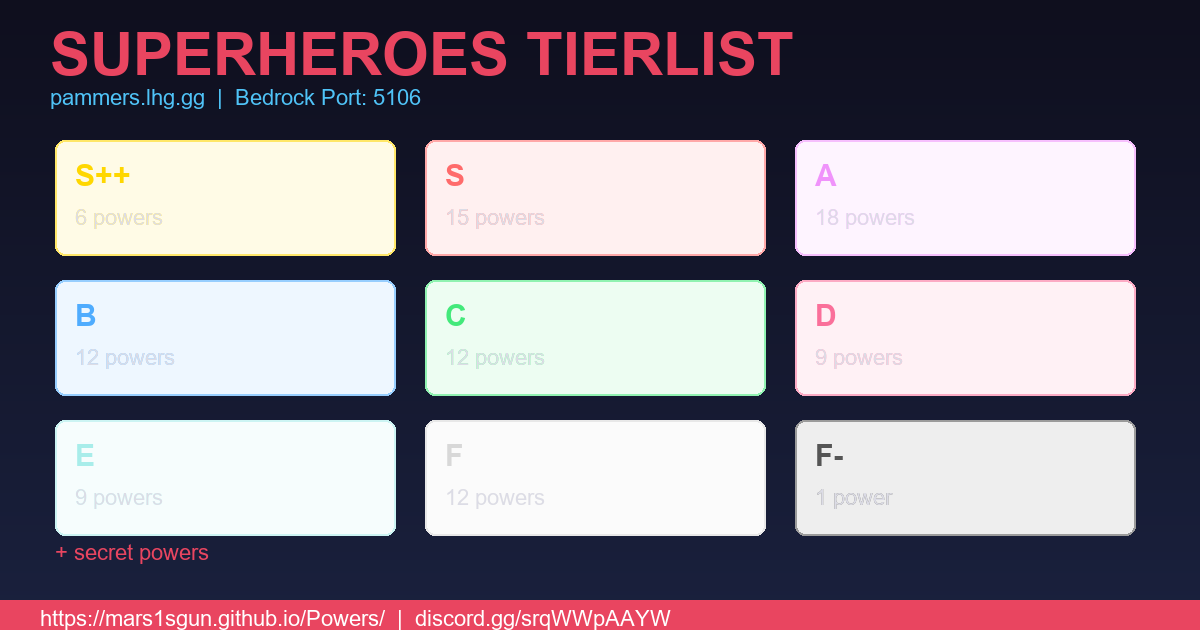
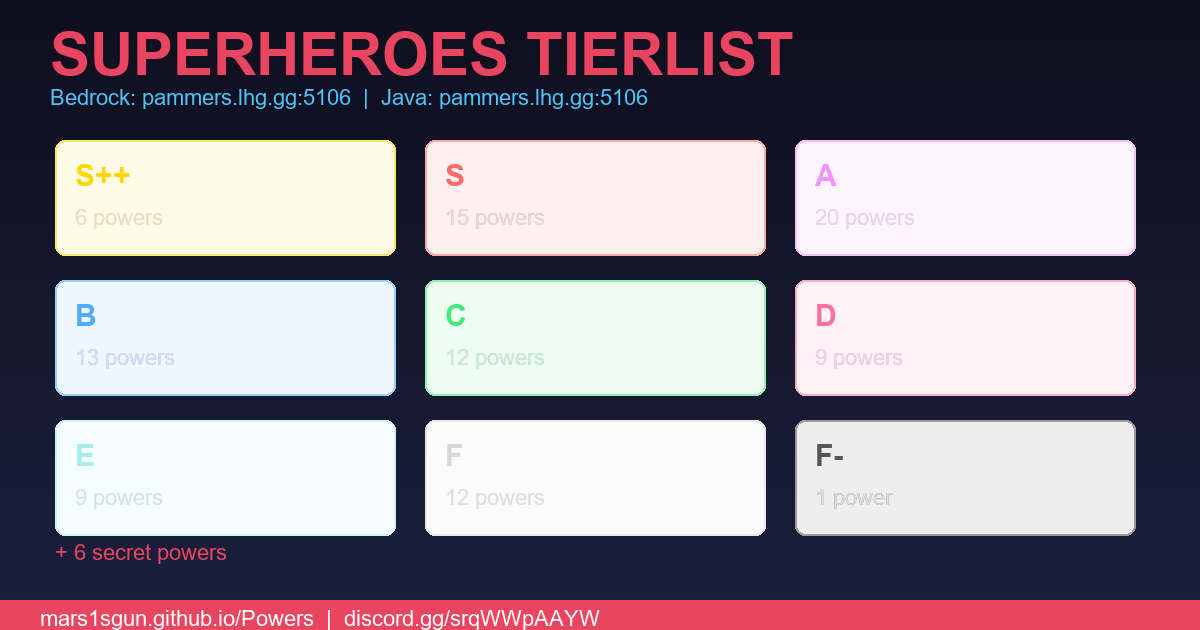
Add Waterbender, PocketDimension, PortalGun to tierlist + update og image

diff --git a/index.html b/index.html
@@ -77,7 +77,7 @@ footer a{color:#b388ff;text-decoration:underline}
 <header>
 <h1>SUPERHEROES TIERLIST</h1>
 <p>All powers ranked — click a tier to expand/collapse</p>
-<p style="margin-top:.5rem;font-size:.9rem;color:#4fc3f7">Bedrock: <b>pammers.lhg.gg</b> port <b>5106</b> &nbsp;|&nbsp; Java: <b>pammers.lhg.gg:5106</b></p>
+<p style="margin-top:.5rem;font-size:.9rem;color:#4fc3f7">Bedrock: <b>138.201.255.236</b> port <b>5183</b> &nbsp;|&nbsp; Java: <b>pammers.lhg.gg:5106</b></p>
 </header>
 <div class="container" id="app"></div>
 <footer>Built by 1sGun &middot; join the discord <a href="https://discord.gg/srqWWpAAYW" target="_blank">https://discord.gg/srqWWpAAYW</a></footer>
@@ -85,12 +85,12 @@ footer a{color:#b388ff;text-decoration:underline}
 
 const TIERS = [
   { id: "spp", label: "S++", item: "DEEPSLATE_EMERALD_ORE", heroes: [
-    { name: "Tank", desc: "Reinforce yourself and repair all your gear.", howto: "Sneak (120s cd)", effects: "Resistance III, Absorption III, full repair", obtain: "Craft S++ PowerShard (8 amethyst + Deepslate Emerald Ore) & right-click to reroll.", chance: "30.7%" },
+    { name: "Tank", desc: "Reinforce yourself and repair all your gear.", howto: "Sneak (120s cd)", effects: "Resistance III, Absorption III, full repair", obtain: "Craft S++ PowerShard (8 amethyst + Deepslate Emerald Ore) & right-click to reroll.", chance: "30.8%" },
     { name: "Timeweaver", desc: "Stop time and teleport through space.", howto: "Left-click (5s cd) / Sneak (60s cd)", effects: "Teleport 30 blocks, Time Stop 15s", obtain: "Craft S++ PowerShard (8 amethyst + Deepslate Emerald Ore) & right-click to reroll.", chance: "7.7%" },
     { name: "Swiper", desc: "Shift-click a player to steal their power for 60s! S++ tier.", howto: "Sneak + right-click target player (180s cd, 120s with TempU)", effects: "Steal target's hero (60s), target becomes Powerless. Reverts after expiry.", obtain: "Craft S++ PowerShard (8 amethyst + Deepslate Emerald Ore) & right-click to reroll.", chance: "7.7%" },
-    { name: "Forcefield", desc: "Create a bubble shield that blocks all damage!", howto: "Right-click stick to toggle. 25 HP shield (50 TempU), blocks all damage. Entities cant enter/exit. Hunger drain 1/sec (Obsidian restores food). 30s cooldown if shattered.", effects: "25 HP (50 TempU), blocks all damage + projectiles bounce. Barrier traps entities inside. Obsidian/Crying Obsidian refuels. TempU: 50 HP, half hunger drain, 6m radius.", obtain: "Craft S++ PowerShard (8 amethyst + Deepslate Emerald Ore) & right-click to reroll.", chance: "15.4%" },
+    { name: "Ichigo", desc: "You are Ichigo Kurosaki, a Soul Reaper from Karakura Town!", howto: "Zangetsu Stick: RC=slash, Sneak+RC=Getsuga Tensho. Hollowfication: RC toggle (hunger drain). Bankai: RC activate. Cero, Horn, True Bankai, FGT forms.", effects: "Zangetsu melee (8 dmg), Getsuga Tensho (10 dmg), Hollowfication (Speed+Strength), Bankai, Horn (Str V+Res IV), True Bankai, FGT (half HP). TempU: halved hunger, extended forms.", obtain: "Craft S++ PowerShard (8 amethyst + Deepslate Emerald Ore) & right-click to reroll.", chance: "15.4%" },
     { name: "Airbender", desc: "Master of the skies! Infinite double jump, no fall damage, wind powers.", howto: "Infinite double jump (space mid-air), no fall damage. Sprint for wind boost. Right-click Stick: Air Blast (1s) / Tornado (20s) / Wind Shield (15s). TempU: +Airburst stick, halved cooldowns, bigger/longer tornado", effects: "N/A", obtain: "Craft S++ PowerShard (8 amethyst + Deepslate Emerald Ore) & right-click to reroll.", chance: "23.1%" },
-    { name: "Ichigo", desc: "You are Ichigo Kurosaki, a Soul Reaper from Karakura Town!", howto: "Zangetsu Stick: RC=slash, Sneak+RC=Getsuga Tensho. Hollowfication Stick: RC=toggle (hunger drain). Bankai Stick: RC=activate. RC Cero while Hollow. Horn of Salvation, True Bankai, Final Getsuga Tensho. All forms have hunger drain & timed duration.", effects: "Zangetsu melee (8 dmg), Getsuga Tensho projectile (10 dmg), Hollowfication (Speed+Strength), Bankai (more dmg+speed), Horn (Strength V+Resistance IV), True Bankai (double reach), FGT (half enemy HP). TempU: halved hunger drain, extended forms.", obtain: "Craft S++ PowerShard (8 amethyst + Deepslate Emerald Ore) & right-click to reroll.", chance: "15.4%" },
+    { name: "Forcefield", desc: "Create a bubble shield that blocks all damage!", howto: "Right-click stick to toggle shield. 25 HP, blocks all damage. Obsidian refuels food. 30s cd on break.", effects: "25 HP shield (50 TempU), blocks all damage. Barrier traps entities. Projectiles bounce. TempU: 50 HP, 6m radius, half hunger.", obtain: "", chance: "15.4%" },
   ]},
   { id: "s", label: "S", item: "NETHER_STAR", heroes: [
     { name: "Homelander", desc: "Fly through the skies and blast foes with laser vision and fireballs!", howto: "Jetpack (hold jump) + Right-click Redstone Block", effects: "Flight, Speed II, Strength II, Resistance II, Laser (6 dmg), Fireballs, X-ray", obtain: "Craft Legendary PowerShard (8 amethyst + Nether Star) & right-click to reroll.", chance: "3.6%" },
@@ -100,7 +100,7 @@ const TIERS = [
     { name: "Eraserhead", desc: "Erase other people\'s powers by sneaking.", howto: "Sneak near target (30 range)", effects: "Power erasure on target", obtain: "Craft Legendary PowerShard (8 amethyst + Nether Star) & right-click to reroll.", chance: "3.6%" },
     { name: "Sorcerer", desc: "Create magical spell books using redstone.", howto: "Craft books with redstone", effects: "12+ spells: Fireball, Lightning, Explosion, etc.", obtain: "Craft Legendary PowerShard (8 amethyst + Nether Star) & right-click to reroll.", chance: "14.3%" },
     { name: "Terrorist", desc: "Explosive power.", howto: "Right-click to detonate", effects: "Creeper explosion (power 10), Remote detonation", obtain: "Craft Legendary PowerShard (8 amethyst + Nether Star) & right-click to reroll.", chance: "14.3%" },
-    { name: "Heatwave", desc: "Engulf your surroundings in scorching flames!", howto: "Sneak (40s cd)", effects: "AoE fire (10 dmg), Ignite, Nausea", obtain: "Craft Legendary PowerShard (8 amethyst + Nether Star) & right-click to reroll.", chance: "7.2%" },
+    { name: "Heatwave", desc: "Engulf your surroundings in scorching flames!", howto: "Sneak (40s cd)", effects: "AoE fire (10 dmg), Ignite, Nausea", obtain: "Craft Legendary PowerShard (8 amethyst + Nether Star) & right-click to reroll.", chance: "7.1%" },
     { name: "Archer", desc: "Shoot arrows and repel everyone!", howto: "Right-click Feather (2s cd)", effects: "Levitation, Repulsion, Infinite arrows", obtain: "Craft Legendary PowerShard (8 amethyst + Nether Star) & right-click to reroll.", chance: "7.1%" },
     { name: "Almight", desc: "Sneak to become stronger.", howto: "Sneak (65s cd)", effects: "Strength VI, Resistance VI, Regen VI, Absorption VI", obtain: "Craft Legendary PowerShard (8 amethyst + Nether Star) & right-click to reroll.", chance: "7.1%" },
     { name: "Mirror", desc: "Shift-click a player to copy their power for 60s! S tier.", howto: "Sneak + right-click target player (180s cd, 120s with TempU)", effects: "Copy target's hero (60s), target keeps theirs. Reverts after expiry.", obtain: "Craft Legendary PowerShard (8 amethyst + Nether Star) & right-click to reroll.", chance: "7.1%" },
@@ -110,24 +110,26 @@ const TIERS = [
     { name: "Telekinesis", desc: "Bend blocks, mobs, and gravity with psychic power!", howto: "TeleCore: RC=select, LC=release, Sneak+RC=throw, Sneak+LC=pull | Psychic Flight: RC=toggle, LC=dash | Block Shield: RC=create, LC=launch block, Sneak+LC=dismiss | Gravity Pull: RC=pulse (pull+launch), LC=force pull, Sneak+RC=vacuum | Psychic Blast: RC=fire, LC=push, Sneak+RC=shockwave", effects: "All abilities share hunger as energy. Purple psychic visuals. TempU boosts shield/blast block count and gravity launch height.", obtain: "Craft Legendary PowerShard (8 amethyst + Nether Star) & right-click to reroll.", chance: "7.1%" },
   ]},
   { id: "a", label: "A", item: "DIAMOND_BLOCK", heroes: [
-    { name: "Earthbender", desc: "Control the earth around you!", howto: "Right-click Stick: Rock Blast (1s) / Earthquake (10s) / Raise Wall (10s)", effects: "N/A", obtain: "Craft A PowerShard (8 amethyst + Diamond Block) & right-click to reroll.", chance: "5.4%" },
-    { name: "IronBlaster", desc: "Fly and unleash rapid ghast fireballs!", howto: "Jetpack + Right-click Blaze Powder", effects: "Flight, Speed VI, Fireball barrage", obtain: "Craft A PowerShard (8 amethyst + Diamond Block) & right-click to reroll.", chance: "2.7%" },
-    { name: "Doomfist", desc: "You are Doomfist.", howto: "Punch air (10s cd)", effects: "Slam (8 dmg, 5 radius)", obtain: "Craft A PowerShard (8 amethyst + Diamond Block) & right-click to reroll.", chance: "2.7%" },
-    { name: "Clone", desc: "Spawn a skeleton clone that fights for you!", howto: "Sneak to summon clone (30s cd)", effects: "Skeleton clone with your skin/armor, follows, attacks who you hit or who hits you", obtain: "Craft A PowerShard (8 amethyst + Diamond Block) & right-click to reroll.", chance: "5.4%" },
-    { name: "Necromancer", desc: "Kill mobs to fill 3 summon slots (2 kills/summon, 10 for bosses). Minions follow, attack who you attack. TempU halves kill req.", howto: "Kill mobs to fill summon slots — right-click Bone to summon (2 kills per summon)", effects: "N/A", obtain: "Craft A PowerShard (8 amethyst + Diamond Block) & right-click to reroll.", chance: "5.4%" },
-    { name: "IronMan", desc: "Genius, billionaire, playboy, philanthropist.", howto: "Jetpack (hold jump)", effects: "Flight with gliding", obtain: "Craft A PowerShard (8 amethyst + Diamond Block) & right-click to reroll.", chance: "5.4%" },
-    { name: "BigBetha", desc: "You are GiantGertrude!", howto: "Passive", effects: "1.5x scale, Flight, Damage modifier", obtain: "Craft A PowerShard (8 amethyst + Diamond Block) & right-click to reroll.", chance: "5.3%" },
-    { name: "MtLady", desc: "You are a giant!", howto: "Passive", effects: "3x scale, 2x HP, Step height 3", obtain: "Craft A PowerShard (8 amethyst + Diamond Block) & right-click to reroll.", chance: "5.3%" },
-    { name: "Strongman", desc: "Pickup and throw entities!", howto: "Right-click entity", effects: "Throw (velocity 2.5)", obtain: "Craft A PowerShard (8 amethyst + Diamond Block) & right-click to reroll.", chance: "5.3%" },
-    { name: "Superhuman", desc: "A more powerful human.", howto: "Passive", effects: "Resistance II, Speed II, Jump Boost III", obtain: "Craft A PowerShard (8 amethyst + Diamond Block) & right-click to reroll.", chance: "5.3%" },
-    { name: "PowerOfPanic", desc: "Low HP gives strength, full HP makes you sluggish!", howto: "Passive — automatic based on HP", effects: "Below 50%: Strength II + Speed II. Below 25%: Strength III + Speed III + Resistance II. Above 95%: Weakness I. TempU boosts all effects +1 level.", obtain: "", chance: "5.3%" },
-    { name: "ExtraHeartMan", desc: "Extra hearts and give absorption.", howto: "Right-click player", effects: "+4 HP, Absorption II (60s) to others", obtain: "Craft A PowerShard (8 amethyst + Diamond Block) & right-click to reroll.", chance: "5.3%" },
-    { name: "Speedster", desc: "Permanent speed IV.", howto: "Passive", effects: "Speed V", obtain: "Craft A PowerShard (8 amethyst + Diamond Block) & right-click to reroll.", chance: "10.0%" },
-    { name: "Flashbang", desc: "Blind nearby players.", howto: "Sneak (60s cd)", effects: "AoE Blindness (20 blocks)", obtain: "Craft A PowerShard (8 amethyst + Diamond Block) & right-click to reroll.", chance: "10.0%" },
-    { name: "Benson", desc: "Fly like Tinkerbell! Disabled for 5s on hit or when you hit someone.", howto: "Passive", effects: "Flight, disabled by Slowness II + Weakness V + Blindness for 5s on PvP.", obtain: "Craft A PowerShard (8 amethyst + Diamond Block) & right-click to reroll.", chance: "5.3%" },
-    { name: "TheCrippler", desc: "Sneak to disable all powers within 15 blocks for 60s! A tier.", howto: "Sneak to trigger (180s cd, 120s with TempU)", effects: "AoE 15 blocks: all players set to Powerless (60s). Reverts after expiry.", obtain: "Craft A PowerShard (8 amethyst + Diamond Block) & right-click to reroll.", chance: "5.3%" },
-    { name: "TheCombo", desc: "Hit AND get hit to stack +atk and -def — 1s window!", howto: "Passive — hitting and getting hit builds combo", effects: "+10% atk per hit, -10% def per hit taken (1s window). TempU: 0.5s window, 2x multiplier.", obtain: "Craft A PowerShard (8 amethyst + Diamond Block) & right-click to reroll.", chance: "5.3%" },
-    { name: "Sacrifice", desc: "Kill to heal — and convert items into totems!", howto: "Passive — kills heal below 20 HP. Sneak with item: sacrifice 1 for 1 totem (60s cd, 30s TempU).", effects: "Kill heal, item-to-totem conversion. TempU: halved cooldown.", obtain: "Craft A PowerShard (8 amethyst + Diamond Block) & right-click to reroll.", chance: "5.3%" },
+    { name: "Earthbender", desc: "Control the earth around you!", howto: "Right-click Stick: Rock Blast (1s) / Earthquake (10s) / Raise Wall (10s)", effects: "N/A", obtain: "Craft A PowerShard (8 amethyst + Diamond Block) & right-click to reroll.", chance: "4.8%" },
+    { name: "IronBlaster", desc: "Fly and unleash rapid ghast fireballs!", howto: "Jetpack + Right-click Blaze Powder", effects: "Flight, Speed VI, Fireball barrage", obtain: "Craft A PowerShard (8 amethyst + Diamond Block) & right-click to reroll.", chance: "2.4%" },
+    { name: "Doomfist", desc: "You are Doomfist.", howto: "Punch air (10s cd)", effects: "Slam (8 dmg, 5 radius)", obtain: "Craft A PowerShard (8 amethyst + Diamond Block) & right-click to reroll.", chance: "2.4%" },
+    { name: "Clone", desc: "Spawn a skeleton clone that fights for you!", howto: "Sneak to summon clone (30s cd)", effects: "Skeleton clone with your skin/armor, follows, attacks who you hit or who hits you", obtain: "Craft A PowerShard (8 amethyst + Diamond Block) & right-click to reroll.", chance: "4.8%" },
+    { name: "Necromancer", desc: "Kill mobs to fill 3 summon slots (2 kills/summon, 10 for bosses). Minions follow, attack who you attack. TempU halves kill req.", howto: "Kill mobs to fill summon slots — right-click Bone to summon (2 kills per summon)", effects: "N/A", obtain: "Craft A PowerShard (8 amethyst + Diamond Block) & right-click to reroll.", chance: "4.8%" },
+    { name: "IronMan", desc: "Genius, billionaire, playboy, philanthropist.", howto: "Jetpack (hold jump)", effects: "Flight with gliding", obtain: "Craft A PowerShard (8 amethyst + Diamond Block) & right-click to reroll.", chance: "4.8%" },
+    { name: "BigBetha", desc: "You are GiantGertrude!", howto: "Passive", effects: "1.5x scale, Flight, Damage modifier", obtain: "Craft A PowerShard (8 amethyst + Diamond Block) & right-click to reroll.", chance: "4.8%" },
+    { name: "MtLady", desc: "You are a giant!", howto: "Passive", effects: "3x scale, 2x HP, Step height 3", obtain: "Craft A PowerShard (8 amethyst + Diamond Block) & right-click to reroll.", chance: "4.8%" },
+    { name: "Strongman", desc: "Pickup and throw entities!", howto: "Right-click entity", effects: "Throw (velocity 2.5)", obtain: "Craft A PowerShard (8 amethyst + Diamond Block) & right-click to reroll.", chance: "4.8%" },
+    { name: "Superhuman", desc: "A more powerful human.", howto: "Passive", effects: "Resistance II, Speed II, Jump Boost III", obtain: "Craft A PowerShard (8 amethyst + Diamond Block) & right-click to reroll.", chance: "4.8%" },
+    { name: "PowerOfPanic", desc: "Low HP gives strength, full HP makes you sluggish!", howto: "Passive — automatic based on HP", effects: "Below 50%: Strength II + Speed II. Below 25%: Strength III + Speed III + Resistance II. Above 95%: Weakness I. TempU boosts all effects +1 level.", obtain: "", chance: "4.8%" },
+    { name: "ExtraHeartMan", desc: "Extra hearts and give absorption.", howto: "Right-click player", effects: "+4 HP, Absorption II (60s) to others", obtain: "Craft A PowerShard (8 amethyst + Diamond Block) & right-click to reroll.", chance: "4.8%" },
+    { name: "Speedster", desc: "Permanent speed IV.", howto: "Passive", effects: "Speed V", obtain: "Craft A PowerShard (8 amethyst + Diamond Block) & right-click to reroll.", chance: "9.0%" },
+    { name: "Flashbang", desc: "Blind nearby players.", howto: "Sneak (60s cd)", effects: "AoE Blindness (20 blocks)", obtain: "Craft A PowerShard (8 amethyst + Diamond Block) & right-click to reroll.", chance: "9.0%" },
+    { name: "Benson", desc: "Fly like Tinkerbell! Disabled for 5s on hit or when you hit someone.", howto: "Passive", effects: "Flight, disabled by Slowness II + Weakness V + Blindness for 5s on PvP.", obtain: "Craft A PowerShard (8 amethyst + Diamond Block) & right-click to reroll.", chance: "4.8%" },
+    { name: "TheCrippler", desc: "Sneak to disable all powers within 15 blocks for 60s! A tier.", howto: "Sneak to trigger (180s cd, 120s with TempU)", effects: "AoE 15 blocks: all players set to Powerless (60s). Reverts after expiry.", obtain: "Craft A PowerShard (8 amethyst + Diamond Block) & right-click to reroll.", chance: "4.8%" },
+    { name: "TheCombo", desc: "Hit AND get hit to stack both atk and def - 1s window!", howto: "Passive - hitting AND getting hit builds combo for both +atk and -def", effects: "+atk per hit, -def per hit taken (1s window). TempU: 0.5s, 2x multiplier.", obtain: "Craft A PowerShard (8 amethyst + Diamond Block) & right-click to reroll.", chance: "4.8%" },
+    { name: "Sacrifice", desc: "Kill to heal - convert items into totems!", howto: "Passive - kills heal below 20 HP. Sneak with item to sacrifice for totem (60s cd, 30s TempU).", effects: "Kill heal below 20 HP. Sneak with item = 1 totem (60s cd, 30s TempU).", obtain: "Craft A PowerShard (8 amethyst + Diamond Block) & right-click to reroll.", chance: "4.8%" },
+    { name: "PocketDimension", desc: "Enter your own pocket dimension or trap others inside one!", howto: "Right-click Pocket Dimension stick: enter your own pocket world (30s, 60s TempU, 60s cd). Right-click Pocket Trap stick on a player: trap them in a pocket box (30s, 60s TempU, 30s cd).", effects: "Personal: enter a 6x7 pocket world for 30s (60s TempU, 60s cd / 30s TempU). Trap: trap a target player in a pocket box for 30s (60s TempU, 30s cd / 15s TempU). No fall damage in pocket.", obtain: "Craft A PowerShard (8 amethyst + Diamond Block) & right-click to reroll.", chance: "4.8%" },
+    { name: "Waterbender", desc: "Master of water and ice! Water breathing, dolphins grace, hydro step, torpedo dash, water blast, ice wall, healing rain, and water wave.", howto: "Passive: Water Breathing + Dolphins Grace (Conduit Power in water). Right-click Stick: Water Blast (no cd) / Ice Wall (12s) / Healing Rain (25s) / Water Wave (5s, 2.5s TempU) / Hydro Step (toggle, no cd). Sprint in water: Torpedo dash. Eat fish: 4x hunger.", effects: "Water Breathing + Dolphins Grace (Conduit in water). Water Blast (6 dmg, no cd, temp ice on impact). Ice Wall (packed ice, 12s cd, despawns). Healing Rain (25s cd, AoE heal). Water Wave (5 dmg, 18 blocks, 5s cd). Hydro Step (toggle, water blocks under feet, ascend in water). Torpedo (sprint in water: boost + 4 dmg, 3 range, hunger drain). Eat fish: 4x hunger. TempU: +dmg, +range, less hunger, longer Ice Wall.", obtain: "Craft A PowerShard (8 amethyst + Diamond Block) & right-click to reroll.", chance: "4.8%" },
   ]},
   { id: "b", label: "B", item: "GOLD_BLOCK", heroes: [
     { name: "SizeShift", desc: "Shrink or grow at will!", howto: "Right-click Amethyst Shard to shrink — Right-click Emerald to grow (30s duration)", effects: "Shrink: 0.25x scale, fast speed/attacks. Grow: 1.5x scale, +6 dmg, slow speed/attacks", obtain: "Craft B PowerShard (8 amethyst + Gold Block) & right-click to reroll.", chance: "8.2%" },
@@ -137,26 +139,26 @@ const TIERS = [
     { name: "Phase", desc: "Phase through the ground.", howto: "Sneak to phase", effects: "Phase 5 blocks deep", obtain: "Craft B PowerShard (8 amethyst + Gold Block) & right-click to reroll.", chance: "4.1%" },
     { name: "Repulsion", desc: "Repel entities when sneaking.", howto: "Sneak", effects: "Repulse (1.5x, 10 radius)", obtain: "Craft B PowerShard (8 amethyst + Gold Block) & right-click to reroll.", chance: "4.1%" },
     { name: "BlackHole", desc: "Attract entities when sneaking.", howto: "Sneak", effects: "Attract (-0.35x, 10 radius)", obtain: "Craft B PowerShard (8 amethyst + Gold Block) & right-click to reroll.", chance: "4.1%" },
-    { name: "GravitySucker", desc: "Control gravity.", howto: "Passive sneaking", effects: "Levitation, Slow falling, Repulse", obtain: "Craft B PowerShard (8 amethyst + Gold Block) & right-click to reroll.", chance: "8.1%" },
+    { name: "GravitySucker", desc: "Control gravity.", howto: "Passive sneaking", effects: "Levitation, Slow falling, Repulse", obtain: "Craft B PowerShard (8 amethyst + Gold Block) & right-click to reroll.", chance: "8.2%" },
     { name: "Sucker", desc: "You suck everything.", howto: "Sneak", effects: "Attract (-0.8x, 3.4 radius)", obtain: "Craft B PowerShard (8 amethyst + Gold Block) & right-click to reroll.", chance: "15.3%" },
     { name: "Bubble", desc: "You have a bubble.", howto: "Sneak", effects: "Repulse (2x, 3.4 radius)", obtain: "Craft B PowerShard (8 amethyst + Gold Block) & right-click to reroll.", chance: "15.3%" },
-    { name: "ComboDefence", desc: "Get hit rapidly to stack endurance + exponential window!", howto: "Passive — getting hit within 1s builds combo", effects: "-10% damage reduction per hit (1s window). TempU: 0.5s window, 2x multiplier. Window shrinks exponentially past 10.", obtain: "Craft B PowerShard (8 amethyst + Gold Block) & right-click to reroll.", chance: "8.1%" },
-    { name: "ComboOffence", desc: "Hit rapidly to stack strength + exponential window!", howto: "Passive — hitting within 1s builds combo", effects: "+10% damage per hit (1s window). TempU: 0.5s window, 2x multiplier. Window shrinks exponentially past 10.", obtain: "Craft B PowerShard (8 amethyst + Gold Block) & right-click to reroll.", chance: "8.1%" },
-    { name: "PortalGun", desc: "Place linked portals to teleport across the world!", howto: "Blue/Orange stick to place. Walk through to teleport (4x velocity). Sneak+RC to remove both. TempU: 200 range, 60s.", effects: "Glass block portal ring, 30s, 60 range. 4x velocity through portals. TempU: 200 range, 60s.", obtain: "Craft B PowerShard (8 amethyst + Gold Block) & right-click to reroll.", chance: "4.1%" },
+    { name: "ComboDefence", desc: "Get hit rapidly to stack endurance - 1s combo window!", howto: "Passive - get hit within 1s to stack Resistance + Absorption", effects: "Resistance + Absorption per hit (1s window). TempU: 0.5s window, 2x amp per stack.", obtain: "Craft B PowerShard (8 amethyst + Gold Block) & right-click to reroll.", chance: "8.2%" },
+    { name: "ComboOffence", desc: "Hit rapidly to stack strength - 1s combo window!", howto: "Passive - hit targets within 1s to stack Strength", effects: "Strength per hit (1s window). TempU: 0.5s window, 2x amp per stack.", obtain: "Craft B PowerShard (8 amethyst + Gold Block) & right-click to reroll.", chance: "8.2%" },
+    { name: "PortalGun", desc: "Place linked portals to teleport across the world!", howto: "Blue/Orange stick to place portals. Walk through to teleport. Sneak+RC to remove.", effects: "Glass block portal ring, 30s, 60 range. 4x velocity through portals. TempU: 200 range, 60s.", obtain: "Craft B PowerShard (8 amethyst + Gold Block) & right-click to reroll.", chance: "4.1%" },
   ]},
   { id: "c", label: "C", item: "BOOKSHELF", heroes: [
     { name: "Frozone", desc: "Walk on water, slow others.", howto: "Passive", effects: "Water walk, Slowness aura", obtain: "Craft C PowerShard (8 amethyst + Bookshelf) & right-click to reroll.", chance: "3.9%" },
     { name: "Nebular", desc: "Controls the void world.", howto: "Sneak (10s cd)", effects: "AoE 5 dmg + Blindness + Wither", obtain: "Craft C PowerShard (8 amethyst + Bookshelf) & right-click to reroll.", chance: "3.9%" },
-    { name: "Dracula", desc: "Absorb life force.", howto: "Attack enemies", effects: "5% lifesteal, +2 max hearts per kill", obtain: "Craft C PowerShard (8 amethyst + Bookshelf) & right-click to reroll.", chance: "7.9%" },
-    { name: "Zeus", desc: "Strike lightning.", howto: "Left-click (10s cd)", effects: "Lightning (30 range), Lightning immunity", obtain: "Craft C PowerShard (8 amethyst + Bookshelf) & right-click to reroll.", chance: "7.9%" },
-    { name: "Midoriya", desc: "The Ninth Holder of One For All.", howto: "Sneak-jump to toggle", effects: "Full Cowling, Detroit Smash (8 dmg)", obtain: "Craft C PowerShard (8 amethyst + Bookshelf) & right-click to reroll.", chance: "7.9%" },
-    { name: "Disguise", desc: "Trick players with disguise.", howto: "Sneak for invisibility", effects: "Invisibility, speed, decoy spawn", obtain: "Craft C PowerShard (8 amethyst + Bookshelf) & right-click to reroll.", chance: "7.9%" },
+    { name: "Dracula", desc: "Absorb life force.", howto: "Attack enemies", effects: "5% lifesteal, +2 max hearts per kill", obtain: "Craft C PowerShard (8 amethyst + Bookshelf) & right-click to reroll.", chance: "7.8%" },
+    { name: "Zeus", desc: "Strike lightning.", howto: "Left-click (10s cd)", effects: "Lightning (30 range), Lightning immunity", obtain: "Craft C PowerShard (8 amethyst + Bookshelf) & right-click to reroll.", chance: "7.8%" },
+    { name: "Midoriya", desc: "The Ninth Holder of One For All.", howto: "Sneak-jump to toggle", effects: "Full Cowling, Detroit Smash (8 dmg)", obtain: "Craft C PowerShard (8 amethyst + Bookshelf) & right-click to reroll.", chance: "7.8%" },
+    { name: "Disguise", desc: "Trick players with disguise.", howto: "Sneak for invisibility", effects: "Invisibility, speed, decoy spawn", obtain: "Craft C PowerShard (8 amethyst + Bookshelf) & right-click to reroll.", chance: "7.8%" },
     { name: "DrCloak", desc: "Not attacked while disguised.", howto: "Sneak (30s cd)", effects: "10s invisibility, mobs lose target", obtain: "Craft C PowerShard (8 amethyst + Bookshelf) & right-click to reroll.", chance: "7.8%" },
     { name: "GravityGuy", desc: "Sneak to rise, let go to fall.", howto: "Sneak to rise", effects: "Levitation II, Slow falling", obtain: "Craft C PowerShard (8 amethyst + Bookshelf) & right-click to reroll.", chance: "14.7%" },
     { name: "Aerosurfer", desc: "Create platforms.", howto: "Sneak to create platforms", effects: "Glass platforms, Speed II", obtain: "Craft C PowerShard (8 amethyst + Bookshelf) & right-click to reroll.", chance: "14.7%" },
-    { name: "Coinflip", desc: "Sneak every 30s for 3 random effects — all good or all bad!", howto: "Sneak to flip (30s cd)", effects: "3 good OR 3 bad potion effects (15s, lvl 1). TempU: lvl 2.", obtain: "Craft C PowerShard (8 amethyst + Bookshelf) & right-click to reroll.", chance: "7.8%" },
-    { name: "Rabbit", desc: "Speed, jump, stomp, and burrow!", howto: "Passive: Speed II + Jump II + no fall damage. Landing = AoE stomp + auto-burrow (invis+invuln). Sneak while burrowed to surface early. TempU: sneak for Super Jump XX (20s, 10s cd).", effects: "Speed II, Jump II, no fall damage. Stomp 0.3 dmg/block. Burrow 1.5 ticks/block. Sneak to unburrow early. TempU: 1.5x + Super Jump (sneak, 10s cd).", obtain: "Craft C PowerShard (8 amethyst + Bookshelf) & right-click to reroll.", chance: "7.8%" },
-    { name: "DamageDelay", desc: "Store incoming damage, then release it as an explosive AoE!", howto: "Sneak to absorb all incoming damage (Weakness+Slowness applied). Unsneak to release stored damage as AoE explosion (damages enemies + self for 30%).", effects: "Sneak: absorbs all damage, Weakness C + Slowness C. Unsneak: AoE explosion based on stored damage, 30% self-damage. TempU: 1.5x radius.", obtain: "Craft C PowerShard (8 amethyst + Bookshelf) & right-click to reroll.", chance: "7.8%" },
+    { name: "Coinflip", desc: "Sneak every 30s for 3 random effects - all good or all bad!", howto: "Sneak to flip (30s cd) - 3 random effects for 15s", effects: "3 random potion effects (15s, lvl 1). TempU: lvl 2.", obtain: "Craft C PowerShard (8 amethyst + Bookshelf) & right-click to reroll.", chance: "7.8%" },
+    { name: "Rabbit", desc: "Speed II + Jump II + no fall damage - auto-burrow on landing! TempU: Super Jump (sneak).", howto: "Passive: Speed II + Jump II + no fall damage. Landing = AoE stomp + auto-burrow. Sneak to unburrow early. TempU: Super Jump (sneak 10s cd).", effects: "Speed II, Jump II, no fall damage. Stomp + auto-burrow on landing. Sneak to unburrow early. TempU: 1.5x + Super Jump (sneak 10s cd).", obtain: "Craft C PowerShard (8 amethyst + Bookshelf) & right-click to reroll.", chance: "7.8%" },
+    { name: "DamageDelay", desc: "Sneak to absorb damage, unsneak to release AoE!", howto: "Sneak to absorb all damage (Weakness+Slowness applied). Unsneak to release AoE explosion (self-damage 30%).", effects: "Sneak: absorbs all damage, Weakness C+Slowness C. Unsneak: AoE explosion, 30% self-damage. TempU: 1.5x radius.", obtain: "", chance: "7.8%" },
   ]},
   { id: "d", label: "D", item: "BONE_BLOCK", heroes: [
     { name: "Floral", desc: "Create and consume flowers.", howto: "Look at ground / Right-click", effects: "11 flower types with buffs", obtain: "Craft D PowerShard (8 amethyst + Bone Block) & right-click to reroll.", chance: "6.7%" },
@@ -164,12 +166,13 @@ const TIERS = [
     { name: "LavaWalker", desc: "Walk on lava.", howto: "Passive", effects: "Lava walk, fire heals, fire immunity", obtain: "Craft D PowerShard (8 amethyst + Bone Block) & right-click to reroll.", chance: "6.7%" },
     { name: "Pyromaniac", desc: "Create fire trails.", howto: "Walk", effects: "Fire trail, fire/lava immunity", obtain: "Craft D PowerShard (8 amethyst + Bone Block) & right-click to reroll.", chance: "6.7%" },
     { name: "Chicken", desc: "You\'re a chicken.", howto: "Passive", effects: "Lay eggs, Speed III, Slow falling", obtain: "Craft D PowerShard (8 amethyst + Bone Block) & right-click to reroll.", chance: "20.8%" },
+    { name: "Pig", desc: "You\'re a pig", howto: "N/A", effects: "N/A", obtain: "", chance: "20.8%" },
     { name: "Dolphin", desc: "Swim at great speeds!", howto: "Passive / Eat Ink Sac", effects: "Dolphins Grace V, Water breathing", obtain: "Craft D PowerShard (8 amethyst + Bone Block) & right-click to reroll.", chance: "12.5%" },
     { name: "Tinkerbell", desc: "You are Tinkerbell!", howto: "Passive", effects: "Flight, Tiny (0.25x)", obtain: "Craft D PowerShard (8 amethyst + Bone Block) & right-click to reroll.", chance: "12.5%" },
-    { name: "EmergencyExit", desc: "Fatal damage teleports you away instead of dying!", howto: "Passive on fatal damage - teleports to random safe location (100s cd, 50s TempU).", effects: "Teleport + Speed II on death blow. 100s cd (50s TempU). TempU: Regen I.", obtain: "Craft D PowerShard (8 amethyst + Bone Block) & right-click to reroll.", chance: "6.6%" },
+    { name: "EmergencyExit", desc: "No power file found.", howto: "Passive - teleports to safety on fatal damage (100s cd, 50s TempU)", effects: "Teleport to safety on fatal damage. 100s cd (50s TempU).", obtain: "", chance: "6.7%" },
   ]},
   { id: "e", label: "E", item: "IRON_BLOCK", heroes: [
-    { name: "Spartan", desc: "Unbreakable shield + arrows.", howto: "Right-click Arrow", effects: "Unbreakable shield, infinite arrows (3 dmg)", obtain: "Craft E PowerShard (8 amethyst + Iron Block) & right-click to reroll.", chance: "7.2%" },
+    { name: "Spartan", desc: "Unbreakable shield + arrows.", howto: "Right-click Arrow", effects: "Unbreakable shield, infinite arrows (3 dmg)", obtain: "Craft E PowerShard (8 amethyst + Iron Block) & right-click to reroll.", chance: "7.1%" },
     { name: "SpiderMan", desc: "Climb blocks!", howto: "Walk near walls", effects: "Wall climb, 90% fall reduction, web traps", obtain: "Craft E PowerShard (8 amethyst + Iron Block) & right-click to reroll.", chance: "14.3%" },
     { name: "KingMidas", desc: "Turn items to gold.", howto: "Passive / Right-click", effects: "Golden Apple craft, blocks to gold", obtain: "Craft E PowerShard (8 amethyst + Iron Block) & right-click to reroll.", chance: "14.3%" },
     { name: "Scavenger", desc: "Extra crafting recipes.", howto: "Craft at table", effects: "Cheap diamond tools/armor", obtain: "Craft E PowerShard (8 amethyst + Iron Block) & right-click to reroll.", chance: "14.3%" },
@@ -180,8 +183,9 @@ const TIERS = [
     { name: "Revealer", desc: "Reveal nearby enemies.", howto: "Sneak (60s cd)", effects: "Glowing on all enemies (20 blocks)", obtain: "Craft E PowerShard (8 amethyst + Iron Block) & right-click to reroll.", chance: "7.1%" },
   ]},
   { id: "f", label: "F", item: "ZOMBIE_HEAD", heroes: [
-    { name: "Creeper", desc: "You\'re a creeper.", howto: "Right-click to explode", effects: "Explosion (power 1), Remote detonation", obtain: "Craft F PowerShard (8 amethyst + Zombie Head) & right-click to reroll.", chance: "4.4%" },
+    { name: "Creeper", desc: "You\'re a creeper.", howto: "Right-click to explode", effects: "Explosion (power 1), Remote detonation", obtain: "Craft F PowerShard (8 amethyst + Zombie Head) & right-click to reroll.", chance: "4.3%" },
     { name: "Enderman", desc: "Teleport by punching.", howto: "Left-click (10s cd)", effects: "Teleport 30 blocks, OHKO Endermen", obtain: "Craft F PowerShard (8 amethyst + Zombie Head) & right-click to reroll.", chance: "8.7%" },
+    { name: "SkeletonKing", desc: "You lead an army of skeletons!", howto: "N/A", effects: "N/A", obtain: "", chance: "4.3%" },
     { name: "Zombie", desc: "You are a zombie!", howto: "Passive", effects: "Resistance II, knockback, burns in sun", obtain: "Craft F PowerShard (8 amethyst + Zombie Head) & right-click to reroll.", chance: "8.7%" },
     { name: "Dragon", desc: "Throw fireballs.", howto: "Right-click (30s cd)", effects: "Dragon fireballs", obtain: "Craft F PowerShard (8 amethyst + Zombie Head) & right-click to reroll.", chance: "4.3%" },
     { name: "Dragon2", desc: "Suck and blow everyone!", howto: "Right-click (2s cd)", effects: "Levitation X, Repulse, Wind Charges", obtain: "Craft F PowerShard (8 amethyst + Zombie Head) & right-click to reroll.", chance: "4.3%" },
